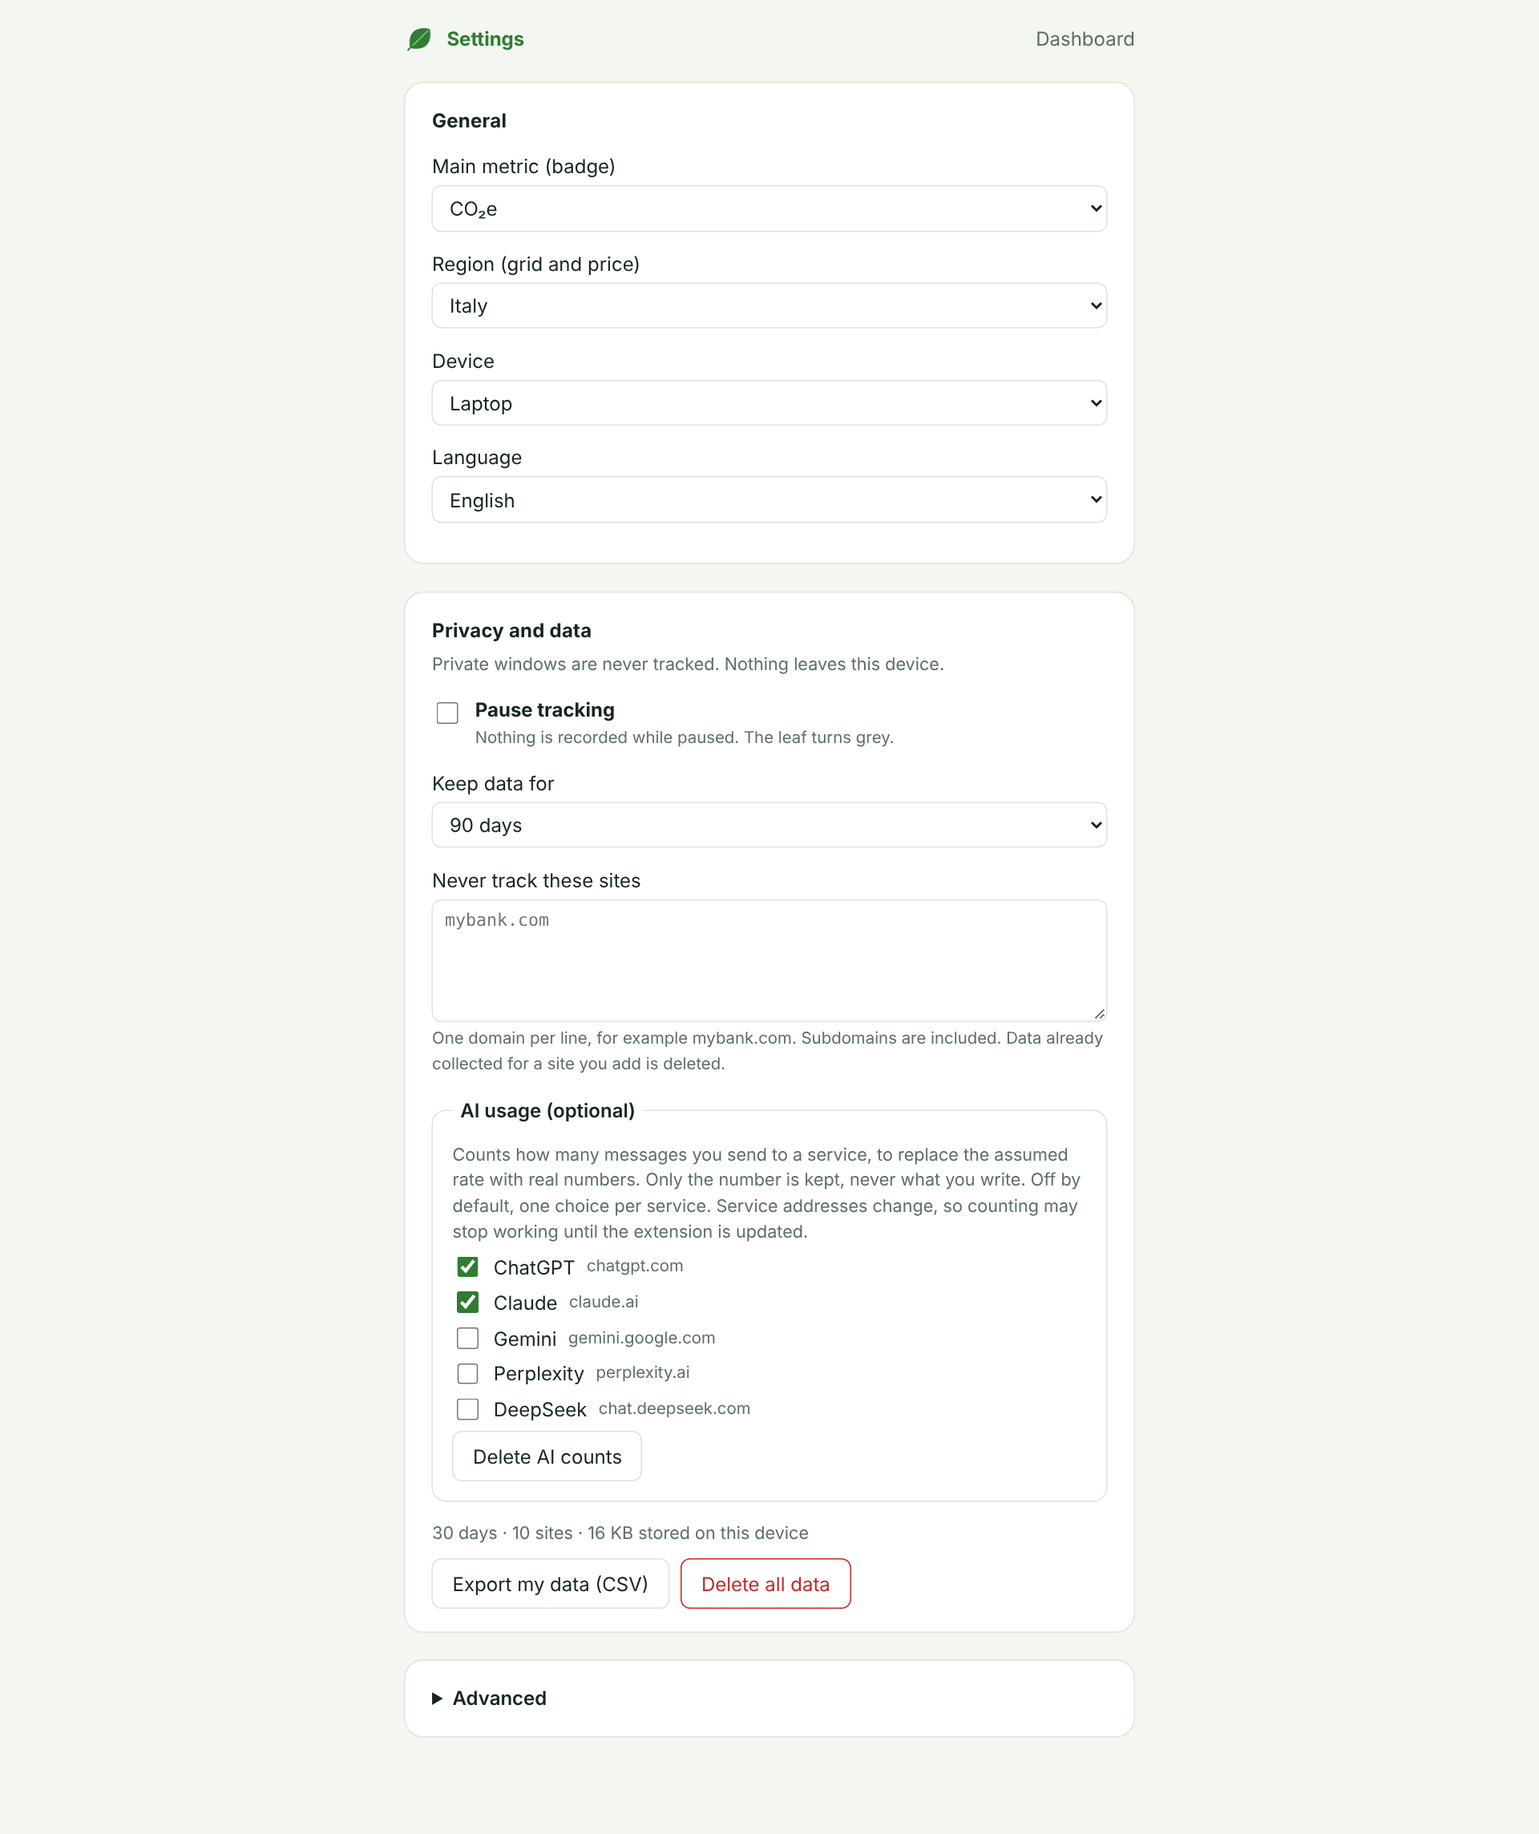
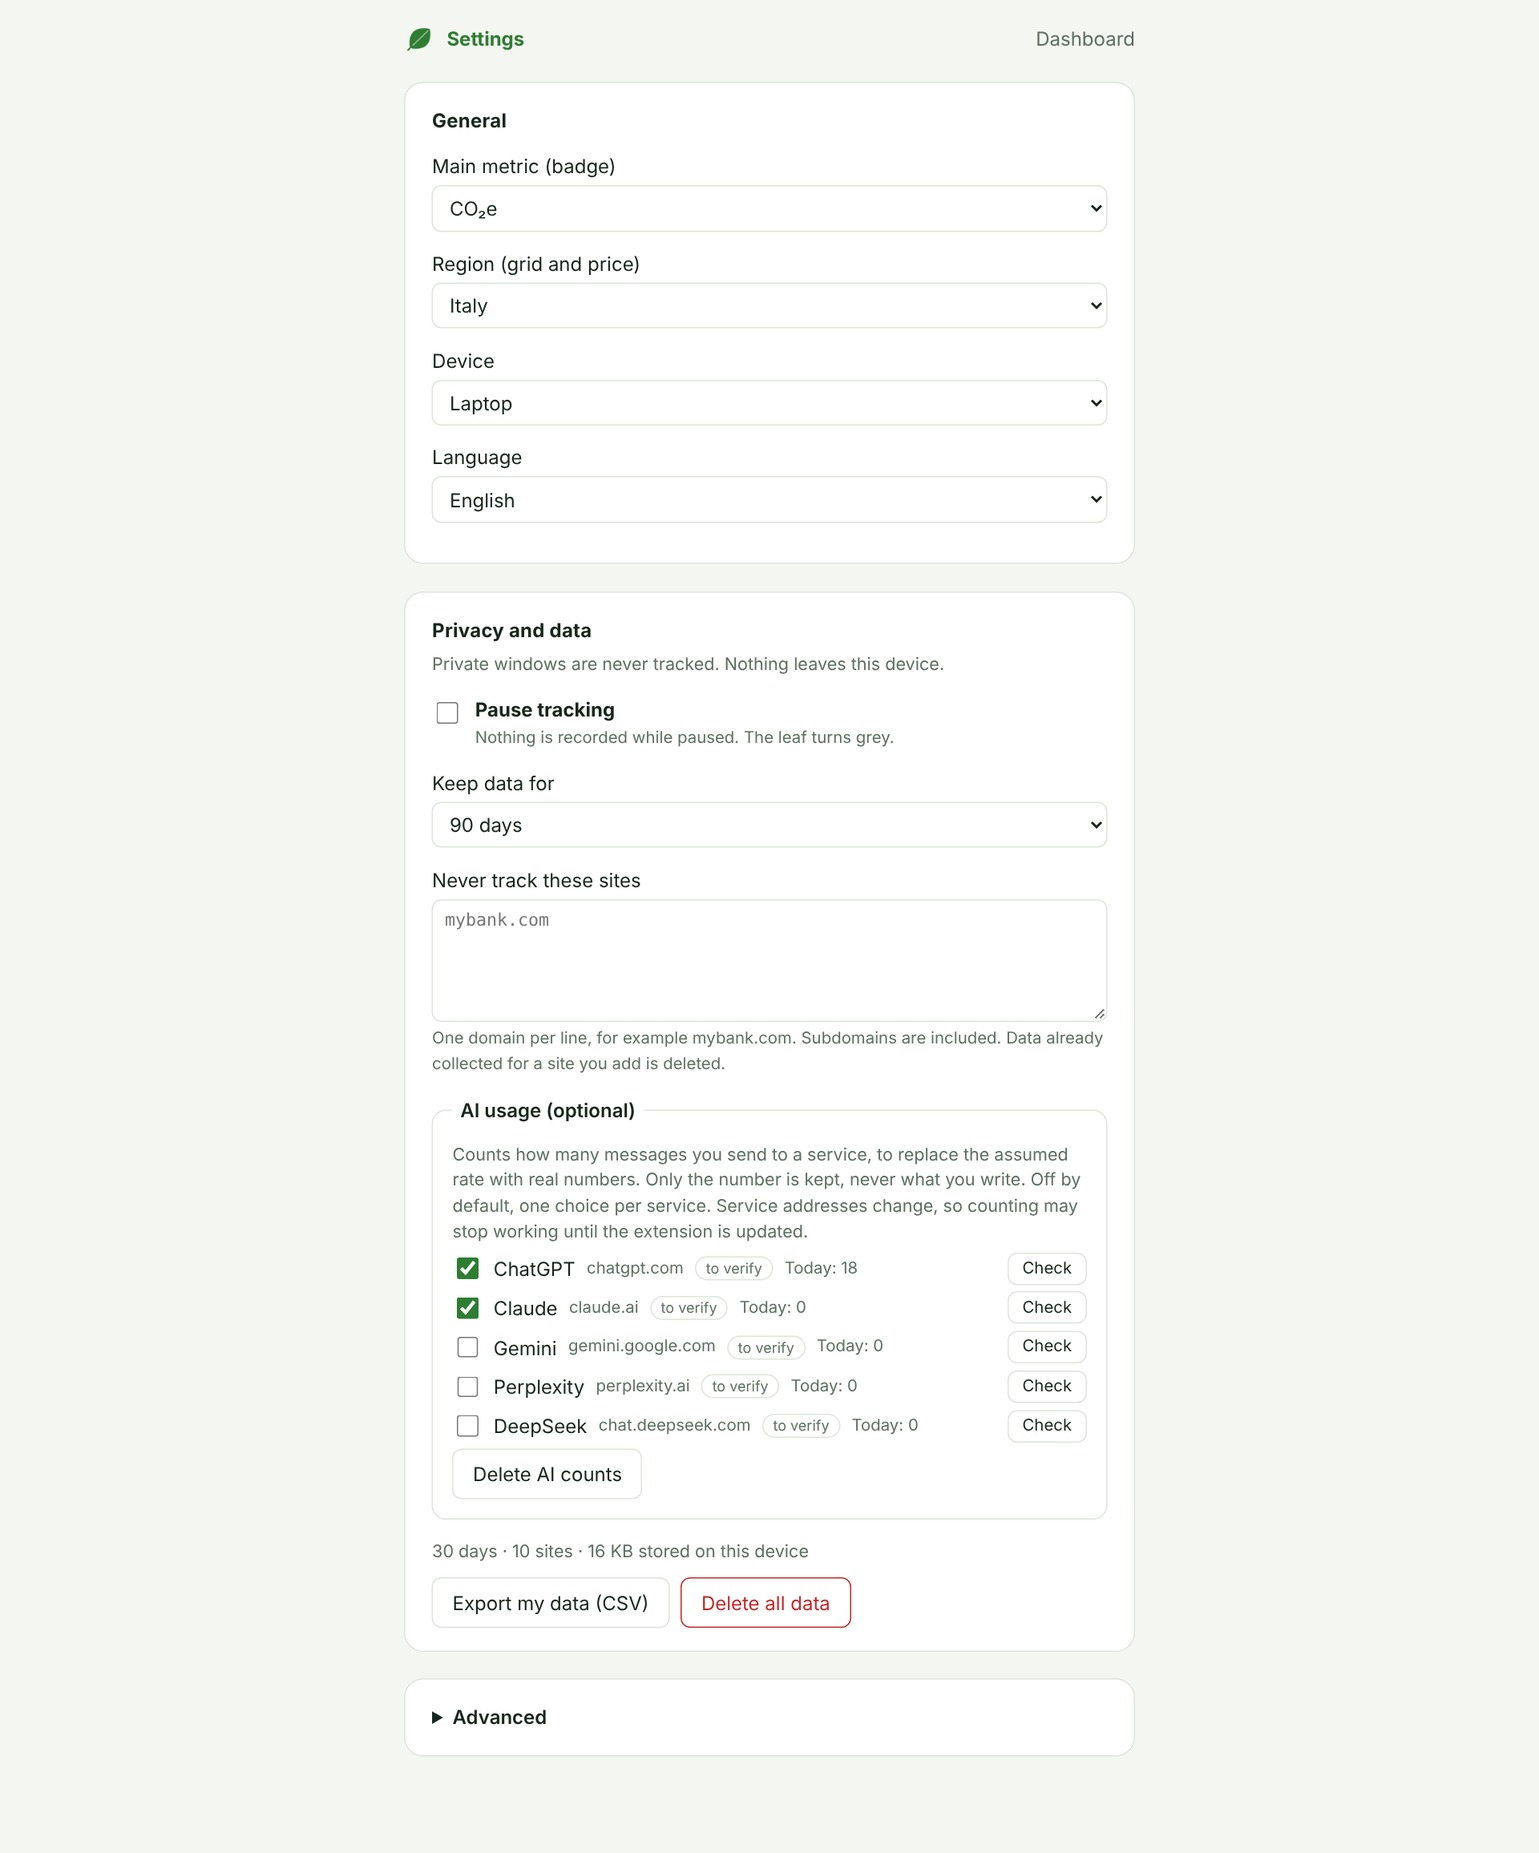
Verifica degli indirizzi AI: stato delle regole con evidenze, strumento di verifica con traffico reale (60 s, in memoria), contatore giornaliero per servizio, guida
Claude-Session: https://claude.ai/code/session_01FMdp5T99h9ndXsWj19GVp4

diff --git a/options/options.js b/options/options.js
@@ -26,14 +26,57 @@ $('paused').checked = priv.paused;
 $('excluded').value = priv.excluded.join('\n');
 // Conteggio dei messaggi AI: un'opzione per servizio, tutte spente di default.
 $('ai-list').replaceChildren(...aiFile.adapters.map((a) => {
-  const row = document.createElement('label');
+  const row = document.createElement('div');
   row.className = 'ai-row';
+  const label = document.createElement('label');
   const box = Object.assign(document.createElement('input'), { type: 'checkbox', id: `ai-${a.id}`, checked: !!priv.aiServices[a.id] });
   box.dataset.service = a.id;
   box.addEventListener('change', save);
-  row.append(box, Object.assign(document.createElement('span'), { textContent: a.label }), Object.assign(document.createElement('small'), { textContent: a.domain }));
+  label.append(box, Object.assign(document.createElement('span'), { textContent: a.label }), Object.assign(document.createElement('small'), { textContent: a.domain }));
+  const tag = a.status === 'verified' ? '' : Object.assign(document.createElement('span'), { className: 'tag', textContent: t('options.ai_unverified'), title: a.evidence?.[0]?.note ?? '' });
+  const today = Object.assign(document.createElement('span'), { className: 'ai-today', id: `ai-today-${a.id}` });
+  const check = Object.assign(document.createElement('button'), { type: 'button', className: 'plain', textContent: t('options.ai_diag') });
+  check.addEventListener('click', () => runDiag(a));
+  row.append(label, ...(tag ? [tag] : []), today, check);
   return row;
 }));
+
+/** Messaggi contati oggi per servizio: permette di verificare subito che il conteggio funzioni. */
+async function refreshAiToday() {
+  const k = `day:${new Date().getFullYear()}-${String(new Date().getMonth() + 1).padStart(2, '0')}-${String(new Date().getDate()).padStart(2, '0')}`;
+  const day = (await api.storage.local.get(k))[k] ?? {};
+  for (const a of aiFile.adapters) $(`ai-today-${a.id}`).textContent = t('options.ai_today', { n: day[a.domain]?.p ?? 0 });
+}
+
+// Verifica con traffico reale: per 60 s si vedono le richieste di invio verso il servizio e se un adattatore le riconosce.
+let diagTimer = null;
+async function runDiag(a) {
+  clearInterval(diagTimer);
+  $('ai-diag').hidden = false;
+  $('ai-diag-table').tBodies[0].replaceChildren();
+  $('ai-diag-status').textContent = t('options.ai_diag_running', { service: a.label });
+  await api.runtime.sendMessage({ type: 'diag:start', domain: a.domain });
+  const poll = async () => {
+    const r = await api.runtime.sendMessage({ type: 'diag:read' });
+    const body = $('ai-diag-table').tBodies[0];
+    body.replaceChildren(...r.entries.map((e) => {
+      const tr = document.createElement('tr');
+      for (const text of [e.request, String(e.n), String(e.status), e.matched ? `✓ ${e.matched}` : '—']) tr.append(Object.assign(document.createElement('td'), { textContent: text }));
+      return tr;
+    }));
+    if (!r.active) {
+      clearInterval(diagTimer);
+      $('ai-diag-status').textContent = r.entries.length ? t('options.ai_diag_done', { n: r.entries.length }) : t('options.ai_diag_none');
+      refreshAiToday();
+    }
+  };
+  diagTimer = setInterval(poll, 2000);
+  poll();
+}
+$('ai-diag-copy').addEventListener('click', async () => {
+  const rows = [...$('ai-diag-table').tBodies[0].rows].map((r) => `${r.cells[0].textContent} | ${r.cells[1].textContent}x | ${r.cells[2].textContent} | ${r.cells[3].textContent}`);
+  try { await navigator.clipboard.writeText(`Requests seen (${new Date().toISOString().slice(0, 10)}):\n${rows.join('\n')}`); } catch { /* il testo resta visibile nella tabella */ }
+});
 
 function refreshFields() {
   const base = coeffs.profiles[$('profile').value];
@@ -131,3 +174,4 @@ $('export').addEventListener('click', async () => {
 
 refreshFields();
 refreshSummary();
+refreshAiToday();

diff --git a/src/background.js b/src/background.js
@@ -1,6 +1,6 @@
 // Service worker: raccoglie byte e tempo attivo per dominio. Nessuna rete, nessun contenuto di pagina.
 import { api, action } from './compat.js';
-import { hostFromUrl, dayKey, dayStorageKey, addSample, expiredDayKeys, contentLength, classify, badgeValue, privacyOf, isExcluded, purgeHosts, matchAdapter } from './core.js';
+import { hostFromUrl, dayKey, dayStorageKey, addSample, expiredDayKeys, contentLength, classify, badgeValue, privacyOf, isExcluded, purgeHosts, matchAdapter, maskPath, normalizeDomain } from './core.js';
 import { estimateDay, convert, resolveProfile, metricOf, METRICS, thresholdsFor, levelOf } from './engine.js';
 import { loadStrings, t } from './i18n.js';
 import { makeFormatter } from './format.js';
@@ -85,8 +85,54 @@ function countPrompt(d) {
   scheduleLive();
 }
 
+// --- Verifica degli indirizzi dei servizi AI (solo su richiesta dell'utente, in memoria, 60 s) ---------
+// Mostra metodo, indirizzo senza parametri e identificativi mascherati, e stato di risposta delle richieste
+// non-GET verso un solo dominio, così si può controllare con traffico reale se un adattatore riconosce i messaggi.
+let diag = null;
+const DIAG_MS = 60000;
+
+async function startDiag(input) {
+  const domain = normalizeDomain(input);
+  if (!domain) return { ok: false };
+  const { settings = {} } = await api.storage.local.get('settings');
+  const file = await loadJson('data/ai_adapters.json');
+  const extra = Array.isArray(settings.aiExtraAdapters) ? settings.aiExtraAdapters.filter((a) => a && a.id && a.domain) : [];
+  diag = { domain, until: Date.now() + DIAG_MS, seen: new Map(), adapters: [...file.adapters, ...extra] };
+  return { ok: true };
+}
+
+function diagCapture(d) {
+  if (!diag || Date.now() > diag.until || d.method === 'GET' || d.method === 'HEAD' || d.method === 'OPTIONS') return;
+  let u;
+  try { u = new URL(d.url); } catch { return; }
+  const host = u.hostname.replace(/^www\./, '');
+  if (host !== diag.domain && !host.endsWith(`.${diag.domain}`)) return;
+  const key = `${d.method} ${host}${maskPath(u.pathname)}`;
+  if (!diag.seen.has(key) && diag.seen.size >= 50) return;
+  const e = diag.seen.get(key) ?? { n: 0, status: 0, matched: null };
+  e.n += 1;
+  e.status = d.statusCode;
+  e.matched = matchAdapter(d.method, d.url, diag.adapters)?.id ?? e.matched;
+  diag.seen.set(key, e);
+}
+
+function readDiag() {
+  if (!diag) return { active: false, entries: [] };
+  return { active: Date.now() <= diag.until, domain: diag.domain, remaining: Math.max(0, diag.until - Date.now()),
+    entries: [...diag.seen].map(([request, e]) => ({ request, ...e })) };
+}
+
+// Solo le pagine dell'estensione possono usare la verifica.
+api.runtime.onMessage.addListener((msg, sender, sendResponse) => {
+  if (sender.id !== api.runtime.id || typeof msg?.type !== 'string') return false;
+  if (msg.type === 'diag:start') { startDiag(msg.domain).then(sendResponse); return true; }
+  if (msg.type === 'diag:read') { sendResponse(readDiag()); }
+  return false;
+});
+
 api.webRequest.onCompleted.addListener((d) => {
   if (d.tabId < 0 || privateTabs.has(d.tabId)) return; // richieste del browser/estensioni e finestre private: ignorate
+  diagCapture(d);
   countPrompt(d);
   const bytes = contentLength(d.responseHeaders);
   if (d.type === 'main_frame') tabHost.set(d.tabId, hostFromUrl(d.url)); // dominio finale dopo eventuali redirect

diff --git a/tests/core.test.js b/tests/core.test.js
@@ -129,7 +129,7 @@ test('purgeHosts e csvFromDays', () => {
   assert.equal(csvFromDays({ '2026-11-09': { 'a.com': { n: 4, b: 5, ms: 6000 } } }), 'day,domain,requests,bytes,active_seconds\n2026-11-09,"a.com",4,5,6\n');
 });
 
-import { matchAdapter, stripAiFields } from '../src/core.js';
+import { matchAdapter, stripAiFields, maskPath } from '../src/core.js';
 
 test('matchAdapter: metodo, dominio e percorso; mai altro', () => {
   const ad = JSON.parse(readFileSync(new URL('../data/ai_adapters.json', import.meta.url))).adapters;
@@ -142,7 +142,7 @@ test('matchAdapter: metodo, dominio e percorso; mai altro', () => {
   assert.equal(matchAdapter('POST', 'https://altro.example/backend-api/conversation', ad), null);
   assert.equal(matchAdapter('POST', 'non un url', ad), null);
   assert.equal(matchAdapter('POST', 'https://x.test/a', [{ domain: 'x.test', method: 'POST', path: '(' }]), null); // regex non valida
-  for (const a of ad) assert.ok(a.id && a.label && a.domain && a.path && a.kind === 'text' && a.status === 'to_verify');
+  for (const a of ad) assert.ok(a.id && a.label && a.domain && a.path && a.kind === 'text' && ['reported', 'unconfirmed', 'verified'].includes(a.status) && Array.isArray(a.evidence));
 });
 
 test('addSample con conteggio AI e stripAiFields', () => {
@@ -157,4 +157,13 @@ test('il service worker non legge mai il corpo delle richieste', () => {
   const sw = readFileSync(new URL('../src/background.js', import.meta.url), 'utf8');
   assert.doesNotMatch(sw, /requestBody/);
   assert.doesNotMatch(sw, /filterResponseData|debugger/);
+});
+
+test('maskPath: nasconde gli identificativi, conserva il percorso', () => {
+  assert.equal(maskPath('/api/organizations/0b1c2d3e-1111-2222-3333-444455556666/chat_conversations/9f8e7d6c-aaaa-bbbb-cccc-ddddeeeeffff/completion'), '/api/organizations/:id/chat_conversations/:id/completion');
+  assert.equal(maskPath('/backend-api/conversation'), '/backend-api/conversation');
+  assert.equal(maskPath('/rest/sse/perplexity_ask'), '/rest/sse/perplexity_ask');
+  assert.equal(maskPath('/v1/threads/1234567/messages'), '/v1/threads/:id/messages');
+  assert.equal(maskPath('/_/BardChatUi/data/assistant.lamda.BardFrontendService/StreamGenerate'), '/_/BardChatUi/data/assistant.lamda.BardFrontendService/StreamGenerate');
+  assert.equal(maskPath('/a/AbCdEfGhIjKlMnOpQrStUvWx'), '/a/:id');
 });

diff --git a/options/options.css b/options/options.css
@@ -18,3 +18,12 @@ fieldset.ai legend { font-weight: 600; padding-inline: .4rem; }
 .ai-row { display: flex; gap: .6rem; align-items: center; margin-block: .35rem; }
 .ai-row input { inline-size: 1.1rem; block-size: 1.1rem; accent-color: var(--accent); }
 .ai-row small { color: var(--muted); }
+
+.ai-row { flex-wrap: wrap; }
+.ai-row label { display: flex; gap: .6rem; align-items: center; margin: 0; }
+.ai-row .ai-today { color: var(--muted); font-size: .85rem; }
+.ai-row .tag { font-size: .75rem; border: 1px solid var(--line); border-radius: 999px; padding: 0 .5rem; color: var(--muted); }
+.ai-row button { padding: .15rem .7rem; font-size: .85rem; margin-inline-start: auto; }
+.diag { border-top: 1px solid var(--line); margin-block-start: .8rem; padding-block-start: .6rem; }
+.diag td, .diag th { font-size: .85rem; padding: .3rem .4rem; text-align: start; border-bottom: 1px solid var(--line); }
+.diag td:first-child { font-family: ui-monospace, "SFMono-Regular", Menlo, monospace; word-break: break-all; }

diff --git a/options/options.html b/options/options.html
@@ -32,6 +32,14 @@
         <legend data-i18n="options.ai"></legend>
         <p class="note" data-i18n="options.ai_hint"></p>
         <div id="ai-list"></div>
+        <div id="ai-diag" class="diag" hidden>
+          <p class="note" id="ai-diag-status" role="status"></p>
+          <div class="scroll"><table id="ai-diag-table"><thead><tr>
+            <th data-i18n="diag.request"></th><th data-i18n="diag.times"></th><th data-i18n="diag.status"></th><th data-i18n="diag.counted"></th>
+          </tr></thead><tbody></tbody></table></div>
+          <button type="button" id="ai-diag-copy" class="plain" data-i18n="options.ai_diag_copy"></button>
+          <p class="note" data-i18n="options.ai_diag_note"></p>
+        </div>
         <button type="button" id="ai-delete" class="plain" data-i18n="options.ai_delete"></button>
       </fieldset>
       <p class="note" id="summary"></p>

diff --git a/src/core.js b/src/core.js
@@ -198,3 +198,11 @@ export function stripAiFields(record) {
     return [host, rest];
   }));
 }
+
+/** Indirizzo senza identificativi (UUID, numeri lunghi, codici): per mostrare un percorso senza dati personali. */
+export function maskPath(pathname) {
+  return pathname.split('/').map((seg) => (
+    /^[0-9a-f]{8}-[0-9a-f]{4}-[0-9a-f]{4}-[0-9a-f]{4}-[0-9a-f]{12}$/i.test(seg) || /^[0-9a-f]{16,}$/i.test(seg)
+    || /^\d{4,}$/.test(seg) || /^[A-Za-z0-9_-]{22,}$/.test(seg) ? ':id' : seg
+  )).join('/');
+}

diff --git a/docs/AI_ADAPTERS.md b/docs/AI_ADAPTERS.md
@@ -1,0 +1,29 @@
+# Indirizzi dei servizi AI: stato e verifica
+
+Il conteggio dei messaggi (livello 3) riconosce una richiesta `POST` riuscita verso l'indirizzo del servizio. Gli indirizzi sono quelli usati dalle app web e **non sono documentati**: possono cambiare senza preavviso.
+
+## Stato al 10 novembre 2026
+Non è stato possibile provare i servizi veri (servono account e gli indirizzi non sono raggiungibili dall'ambiente di sviluppo). La ricerca nelle fonti pubbliche dà questo quadro; **nessuna voce è ancora `verified`**.
+
+| Servizio | Regola (`data/ai_adapters.json`) | Stato | Evidenza |
+|---|---|---|---|
+| ChatGPT | `POST chatgpt.com/backend-api/conversation` (anche `/f/conversation`) | `reported` | `/backend-api/conversation` è descritto da documentazione della comunità e da un'analisi del traffico (Keysight, 2023). La variante `/f/conversation` non ha conferme |
+| Perplexity | `POST perplexity.ai/rest/sse/perplexity_ask` | `reported` | Usato da due progetti non ufficiali (risposta a flusso di eventi) |
+| Claude | `POST claude.ai/api/organizations/{id}/chat_conversations/{id}/completion` | `unconfirmed` | Le fonti trovate descrivono solo creazione e lettura delle conversazioni |
+| Gemini | `POST gemini.google.com/.../StreamGenerate` | `unconfirmed` | Nessuna fonte recente |
+| DeepSeek | `POST chat.deepseek.com/api/v0/chat/completion` | `unconfirmed` | Nessuna fonte; l'API ufficiale è su un altro dominio |
+
+## Come verificare con il proprio browser (un minuto)
+1. Impostazioni → Privacy e dati → *Uso dell'AI*.
+2. Attiva il servizio e premi **Verifica**: per 60 secondi l'estensione elenca le richieste di invio verso quel solo dominio (metodo, indirizzo senza parametri con gli identificativi nascosti, stato).
+3. Nel servizio invia un messaggio. Nella tabella compare la richiesta; la spunta ✓ indica che la regola attuale la riconosce.
+4. Controlla anche il contatore **Oggi: N** accanto al servizio: dopo l'invio deve salire.
+5. Se la richiesta compare ma senza spunta, premi **Copia il rapporto** e apri una segnalazione con il testo: basta per correggere la regola.
+
+La verifica è in memoria e dura un minuto; non si legge alcun contenuto e non si salva nulla.
+
+## Per chi mantiene i dati
+- Quando una regola è confermata con traffico reale, cambia `status` in `verified` e aggiungi data e browser nelle `evidence`.
+- Se un servizio cambia indirizzo il conteggio resta a zero e il motore torna all'ipotesi dei messaggi all'ora (non c'è un falso zero).
+- Prova con un servizio simulato: `node scripts/e2e-ai.cjs <cartella-profilo>`.
+- Verifica periodica consigliata insieme all'aggiornamento trimestrale dei dati.

diff --git a/README.md b/README.md
@@ -10,7 +10,7 @@ Free, open source browser extension that **estimates** the environmental footpri
 - Toolbar **leaf** (green / yellow / red) with a badge showing today's value for your chosen metric (CO₂e, water or cost).
 - **Dashboard**: current session, today, 7 and 30 days; breakdown by activity and by site; everyday equivalences.
 - **Methodology** page generated from the same JSON the engine uses: every number traces back to a method and a source.
-- Optional, per-service count of AI messages (ChatGPT, Claude, Gemini, Perplexity, DeepSeek) to replace the assumed usage rate with real numbers: only the number is kept, never the content.
+- Optional, per-service count of AI messages (ChatGPT, Claude, Gemini, Perplexity, DeepSeek) to replace the assumed usage rate with real numbers: only the number is kept, never the content. Rules are checked with real traffic from Settings (see `docs/AI_ADAPTERS.md`).
 - Six regional profiles (Italy by default, EU, USA, China, Japan, world average), all overridable.
 - Interface in English and Italian; more languages by adding one JSON file.
 

diff --git a/docs/PRECISION_MODES.md b/docs/PRECISION_MODES.md
@@ -54,3 +54,6 @@ Ogni livello deve arrivare con: testo di consenso, voce nella Metodologia, test 
 - **4K**: se i byte per ora attiva superano 4 GB/h (Netflix: HD circa 3 GB/h, 4K circa 7 GB/h) il riferimento sale di 1,5 volte.
 - **Mai al ribasso**: una velocità bassa non riduce la stima, perché i byte sono spesso sottostimati (server che non dichiarano la dimensione).
 - **Limite**: i valori per risoluzione della ricerca includono lo schermo e non sono usati direttamente; la musica (poche centinaia di MB all'ora) è stimata con lo stesso riferimento e quindi sovrastimata.
+
+## Livello 3: verifica degli indirizzi
+Stato delle regole, come verificarle con traffico reale e come segnalare correzioni: `docs/AI_ADAPTERS.md`. Nelle Impostazioni ogni servizio mostra *da verificare*, il contatore "Oggi: N" e il pulsante **Verifica** (60 s, in memoria).
